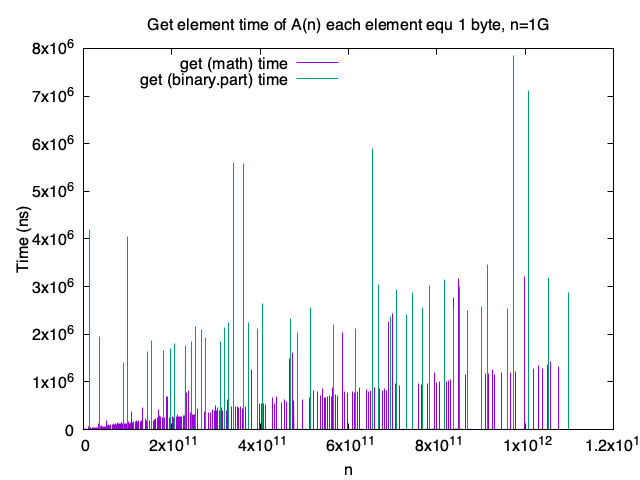
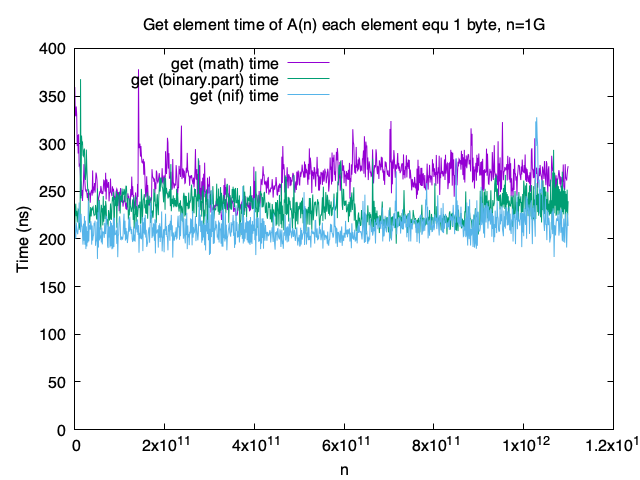
test enif_make_sub_binary

diff --git a/c_src/utils_nif.cpp b/c_src/utils_nif.cpp
@@ -103,10 +103,11 @@ get_sub_binary(ErlNifEnv *env, int argc, const ERL_NIF_TERM argv[])
         return enif_make_badarg(env);
     }
 
-    enif_alloc_binary(el_size, &sub_data);
-    memcpy(sub_data.data, data.data + i_start, el_size);
-
-    return enif_make_binary(env, &sub_data);
+    // enif_alloc_binary(el_size, &sub_data);
+    // memcpy(sub_data.data, data.data + i_start, el_size);
+    // return enif_make_binary(env, &sub_data);
+    
+    return enif_make_sub_binary(env, argv[0], i_start, el_size);
 }
 
 /*

diff --git a/README.md b/README.md
@@ -90,7 +90,7 @@ Create time of array A(n) each element equ 1Mb when n=1, 2, 4, 8, 16, 32, 64, 12
 
 ![Image of create_1m](create_1m.png)
 
-Get element time from 1G array approximately 50000ns
+Get element time from 1G array approximately average 200ns
 
 ![Image of get_1g](get_1g.png)
 
